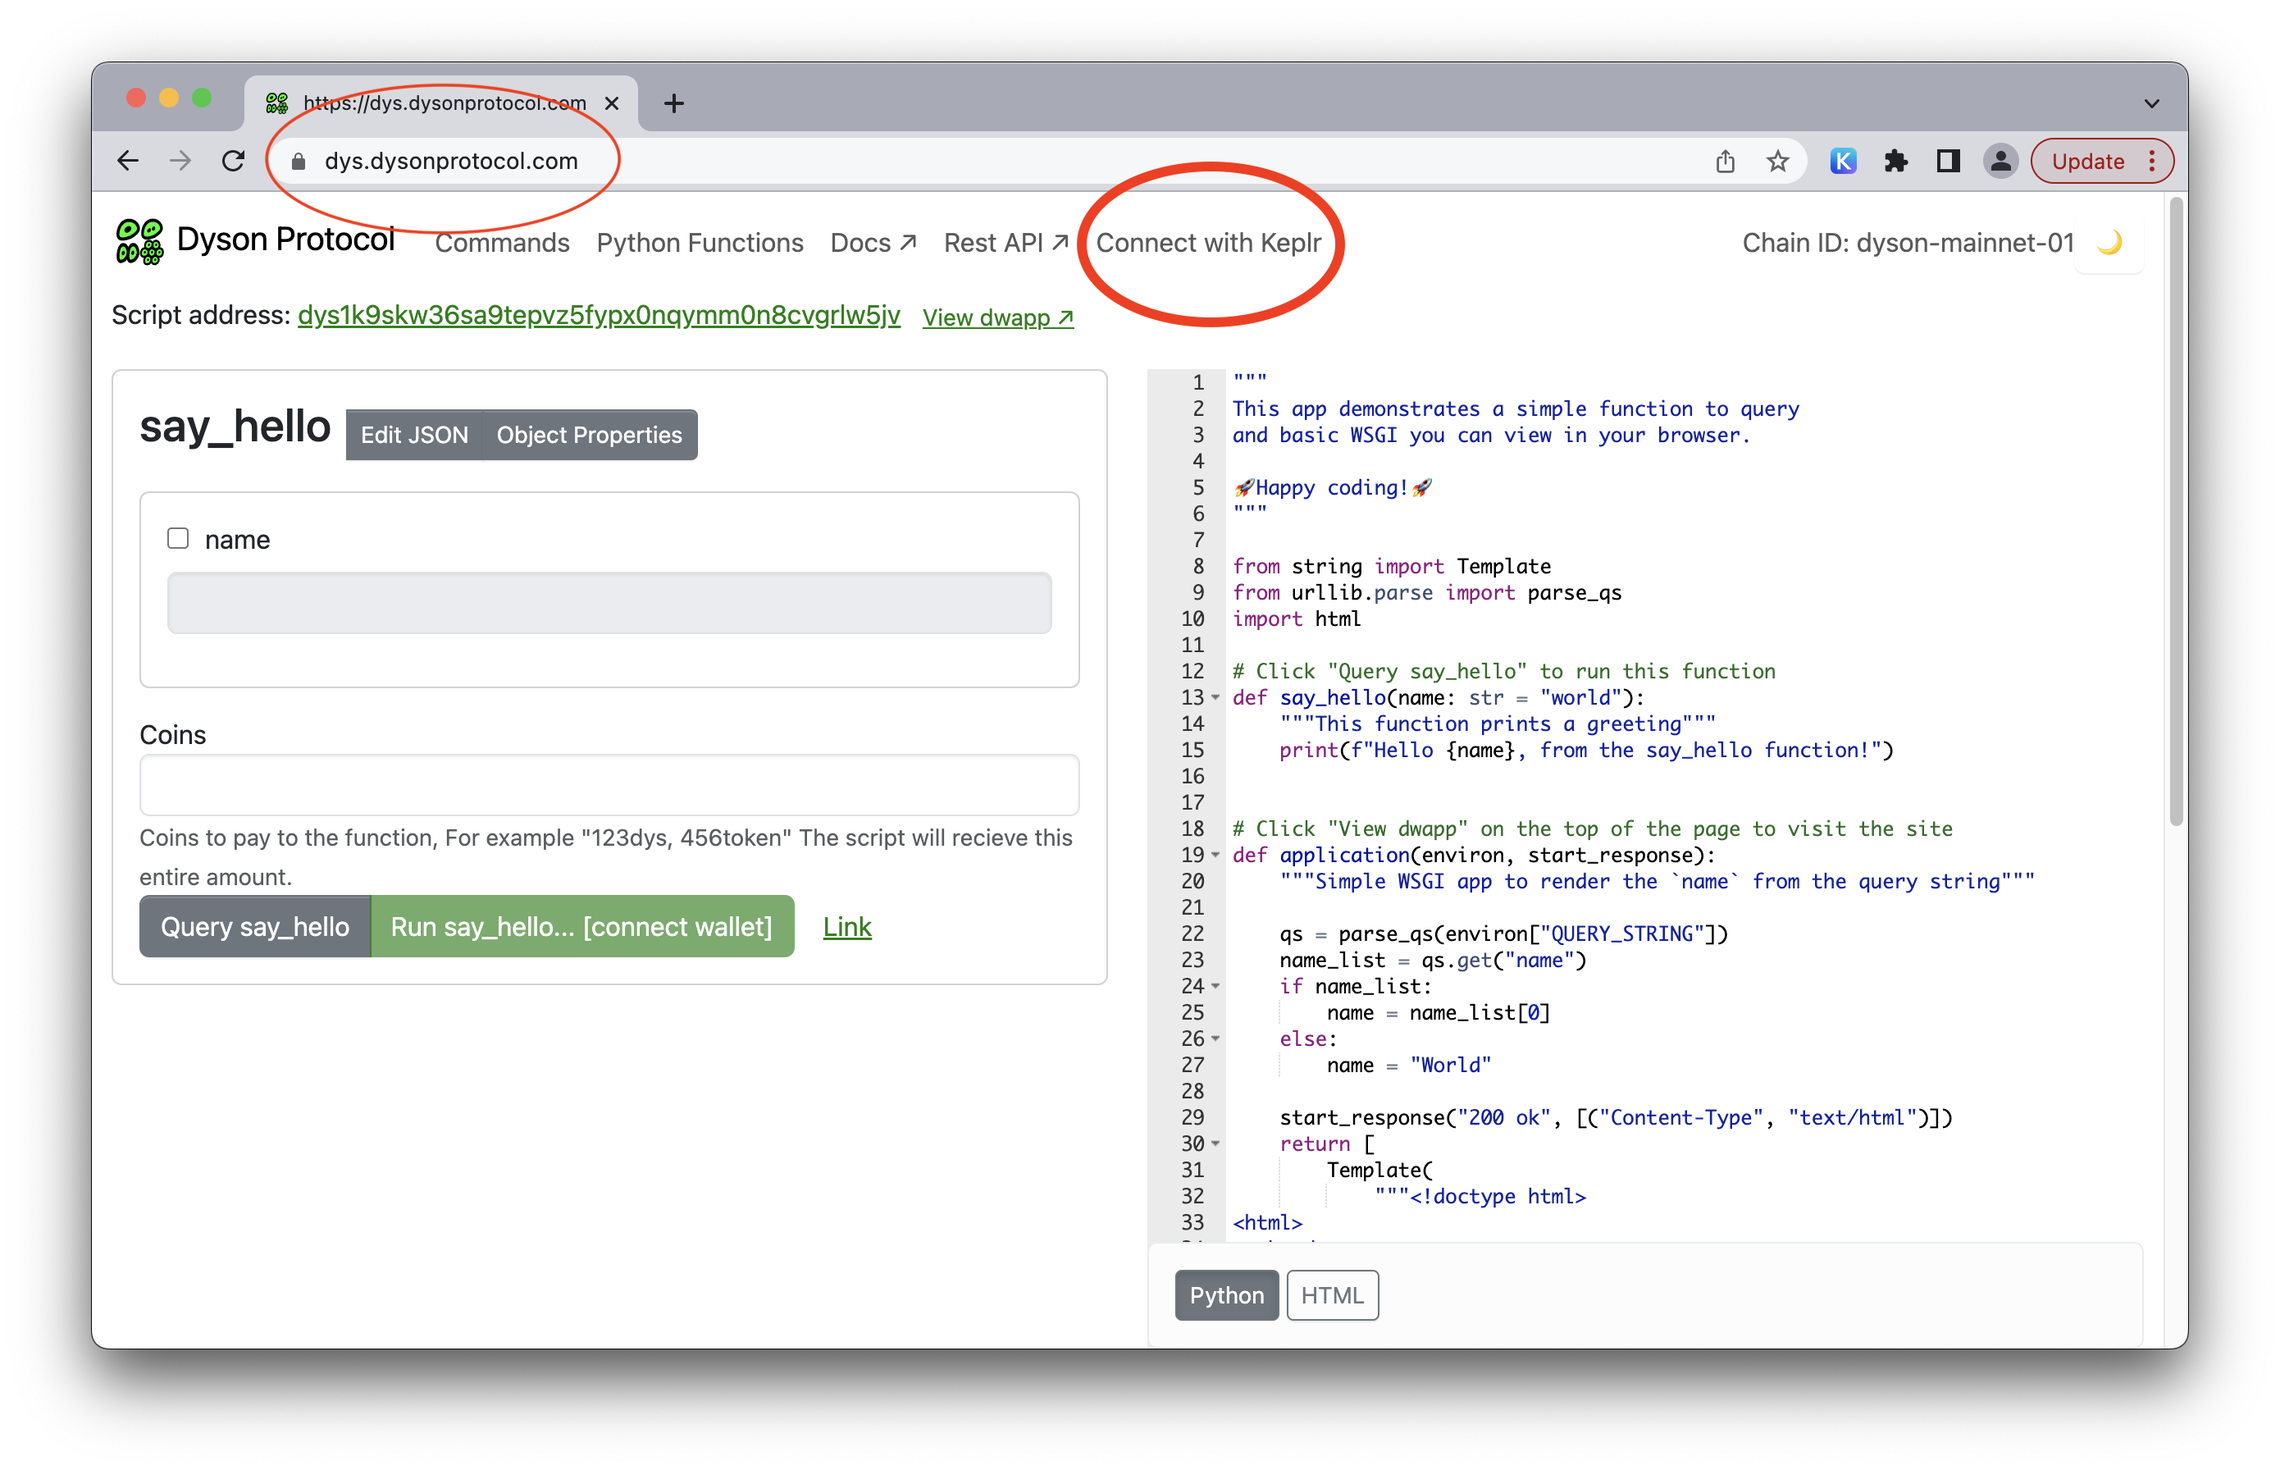
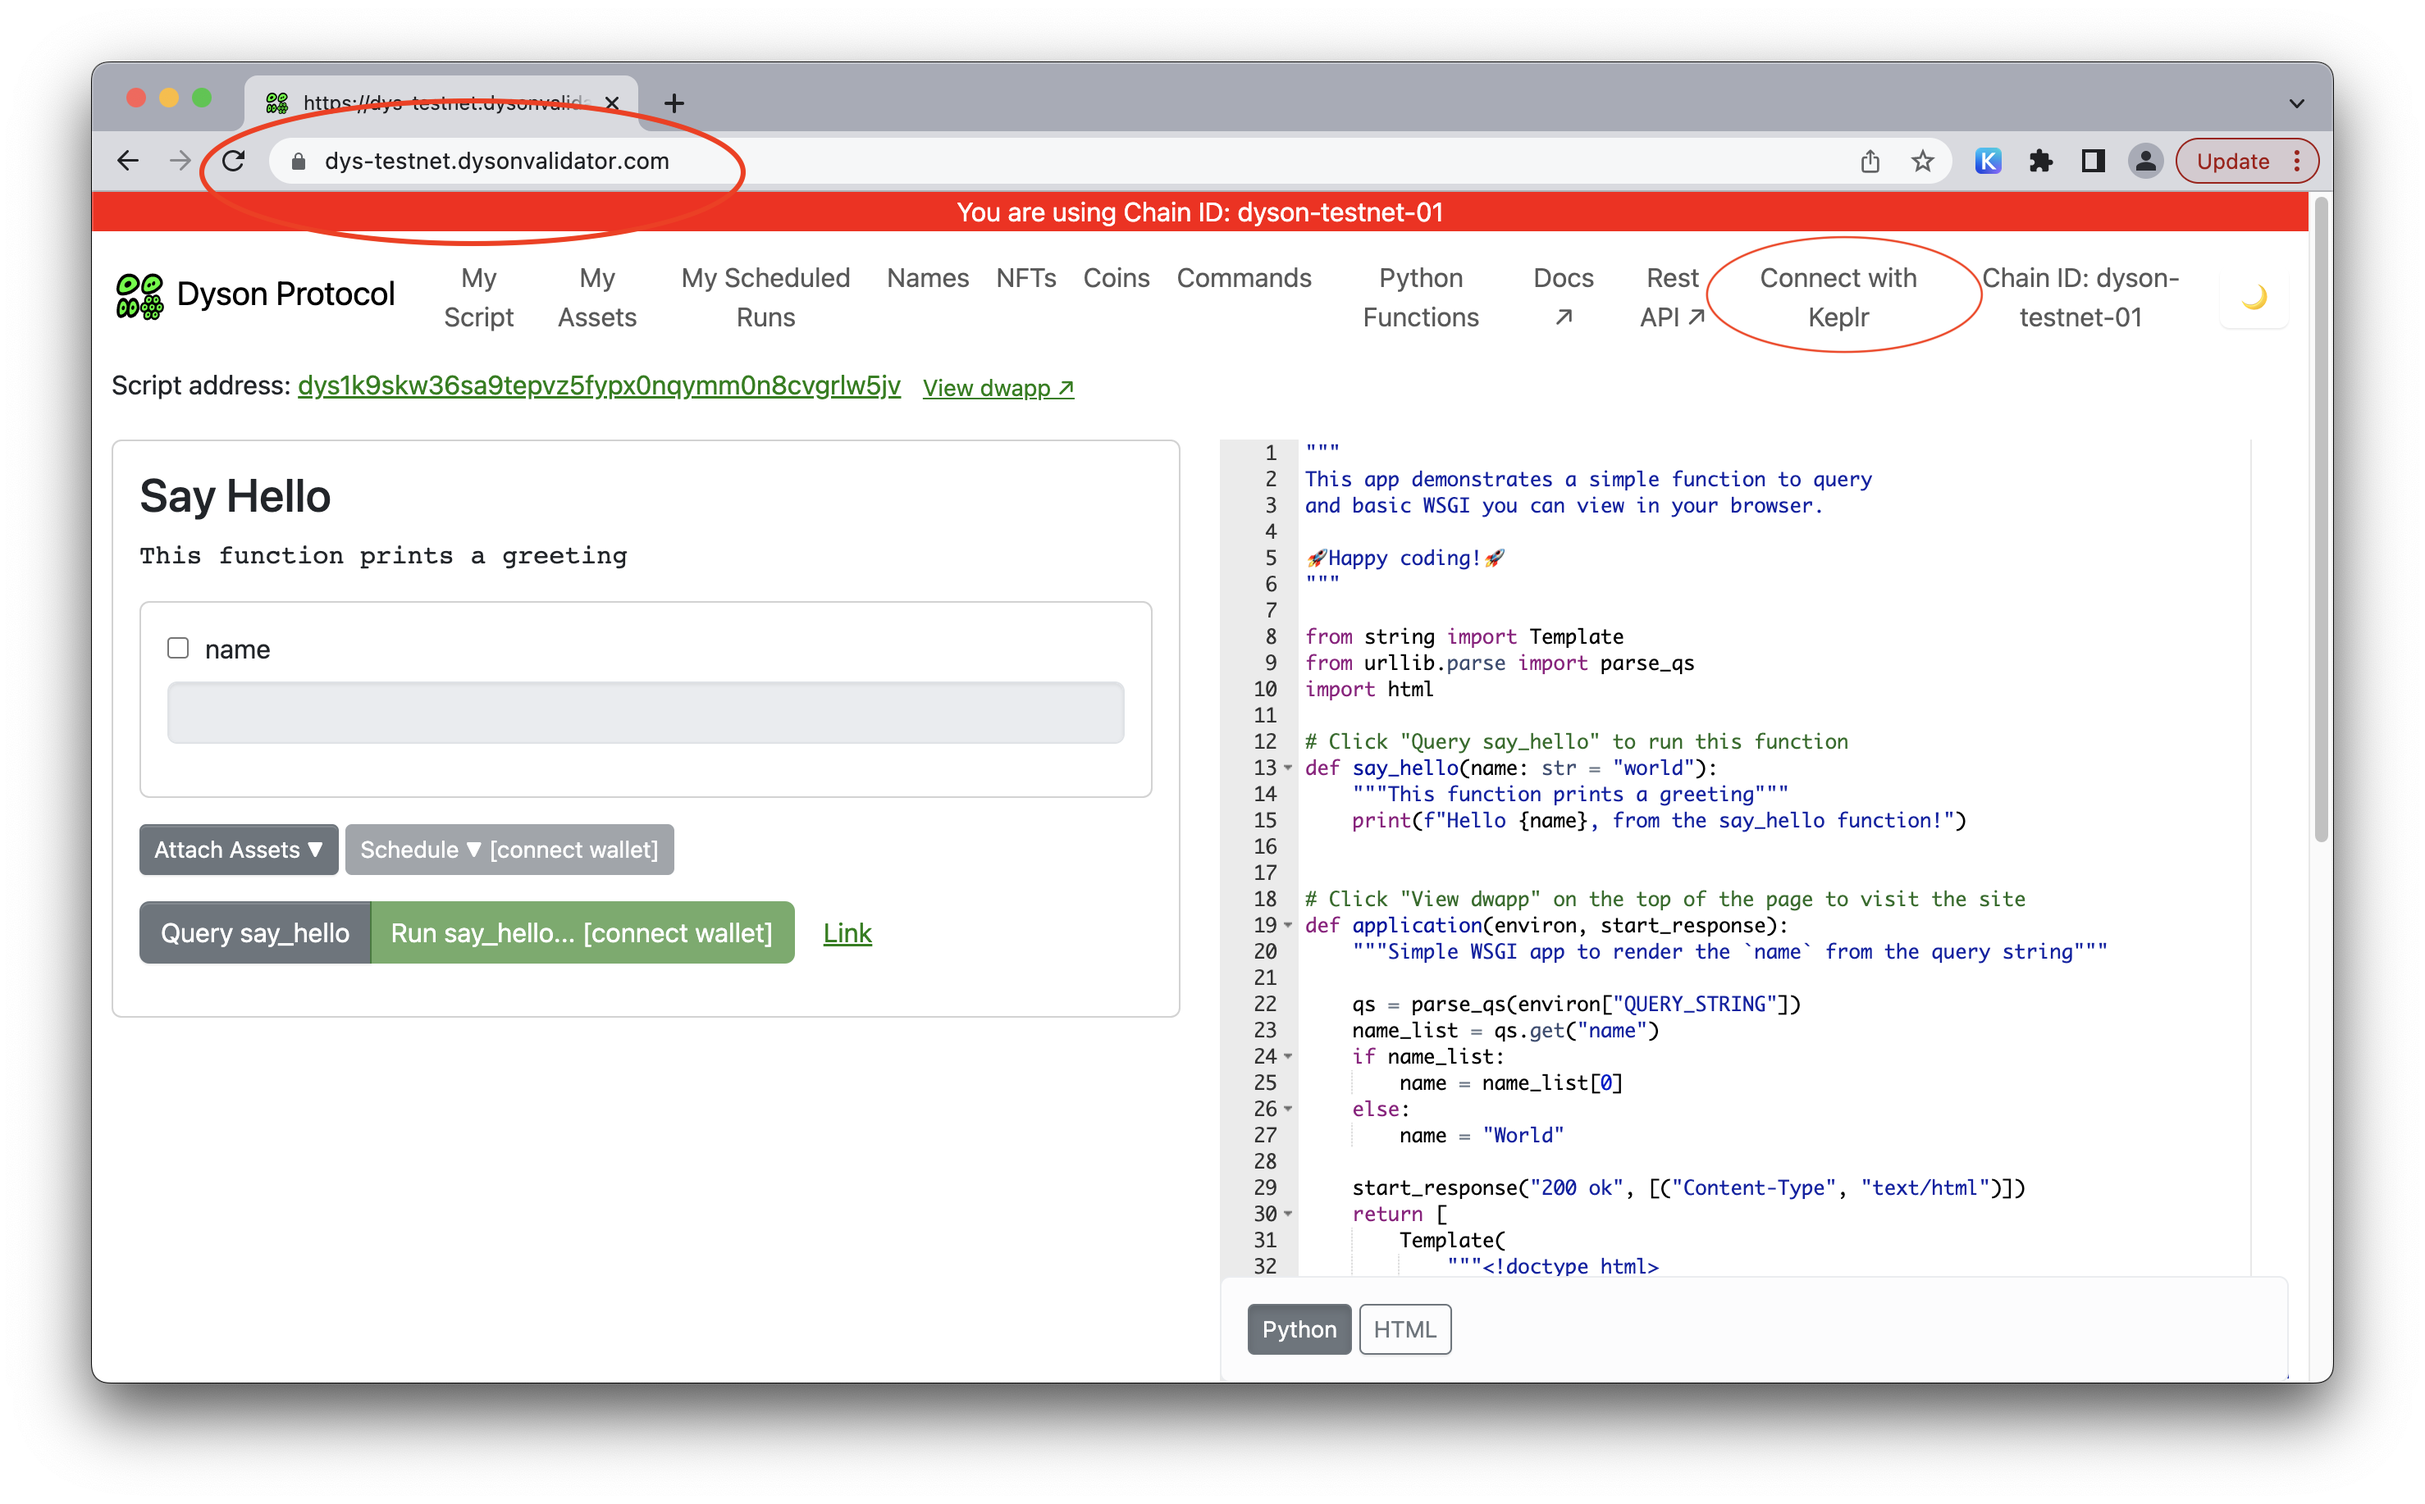
Update 2 files
- /docs/tutorials/HowToUsetheKeplrWalletandgetyourtestnetDYS/3.png
- /docs/tutorials/HowToUsetheKeplrWalletandgetyourtestnetDYS/index.md

diff --git a/docs/tutorials/HowToUsetheKeplrWalletandgetyourtestnetDYS/index.md b/docs/tutorials/HowToUsetheKeplrWalletandgetyourtestnetDYS/index.md
@@ -17,7 +17,7 @@ After installing Keplr, create a new account within the wallet. It is crucial to
 
 **Step 3: Access the Dyson Protocol Website**
 
-Navigate your Chrome browser to https://dys.dysonvalidator.com/.
+Navigate your Chrome browser to https://dys-testnet.dysonvalidator.com/
 
 
 **Step 4: Connect Keplr Wallet to Dyson Protocol**
@@ -26,7 +26,7 @@ On the Dyson Protocol website, locate the "Connect with Keplr" button in the top
 ![](./3.png)
 
 
-**Step 5: Accept the Connection to the Dyson Chain**
+**Step 5: Accept the Connection to the Dyson Protocol Chain**
 
 Once you've selected "Use Keplr," the connection to the Dyson Chain will be established. Follow the prompts in the Keplr wallet to approve the connection.
 ![](./4.png)
